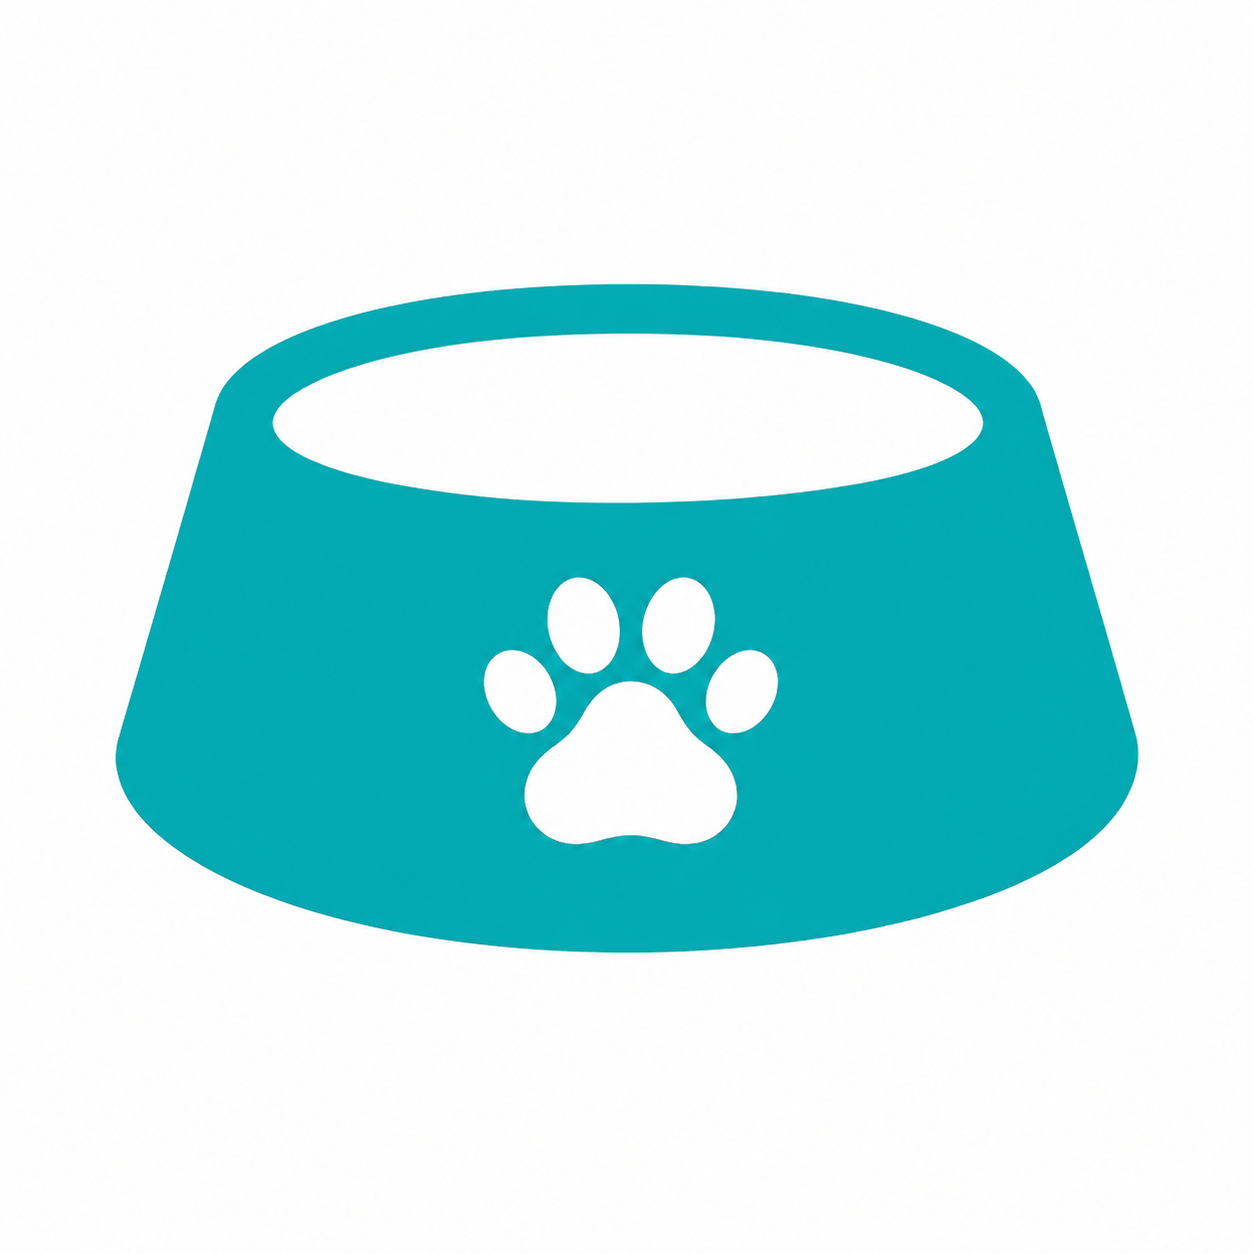
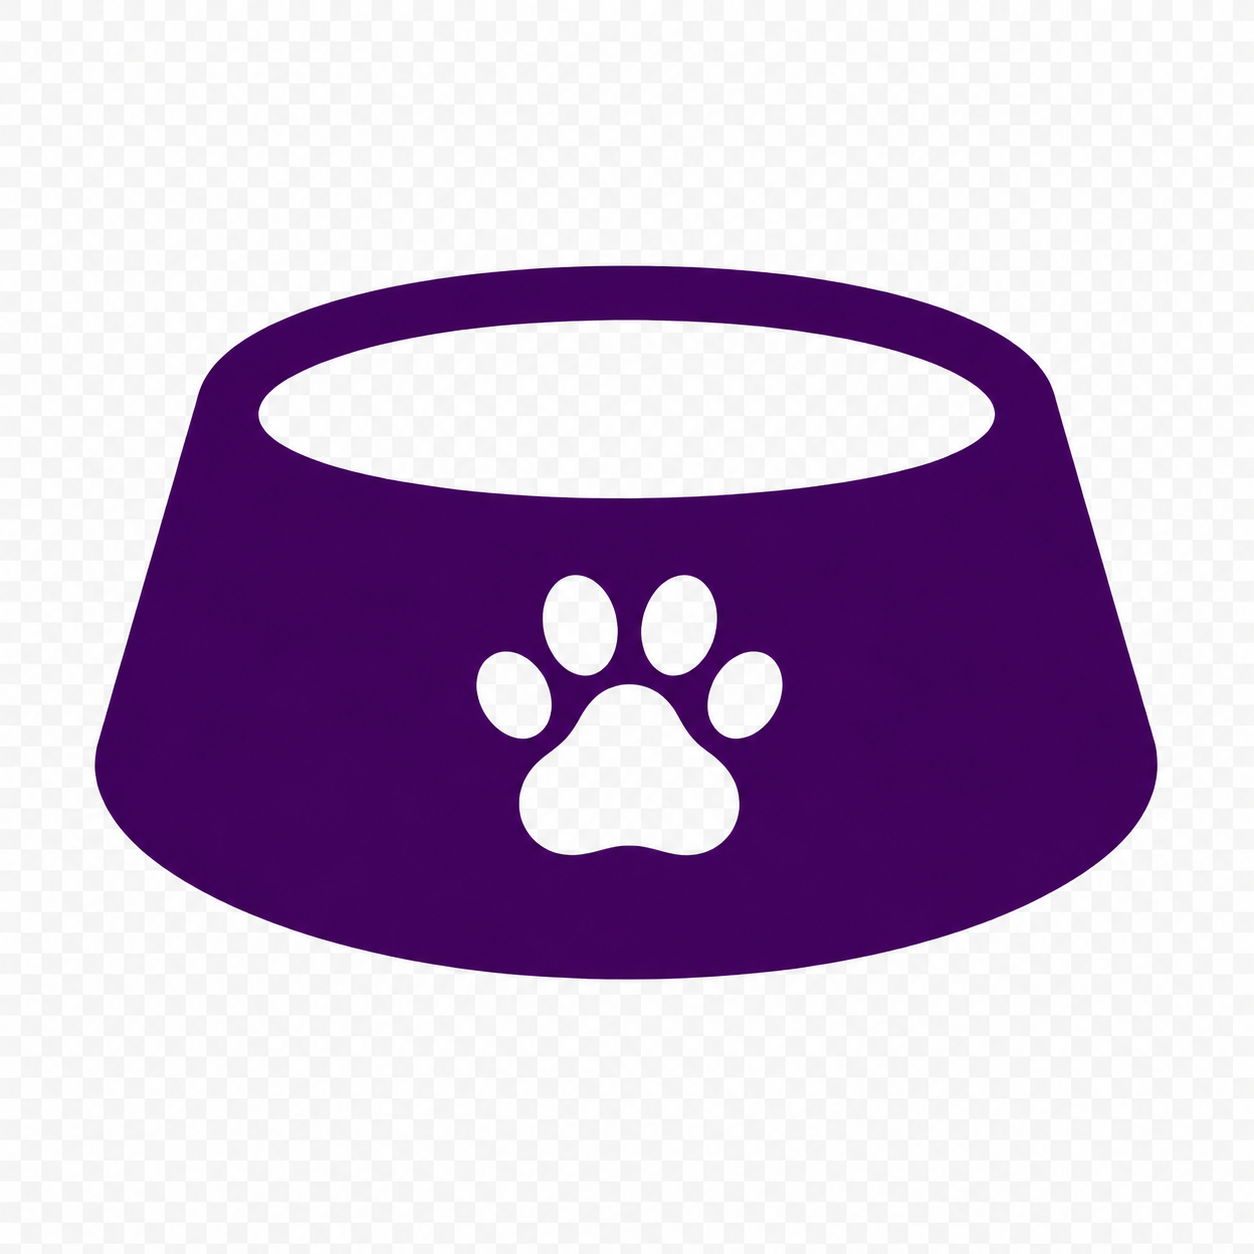
Icones de comida e focinho

diff --git a/app/page.tsx b/app/page.tsx
@@ -226,7 +226,7 @@ export default function Home() {
                   <ul className="space-y-3" aria-label="Funções dos rins além da filtração">
                     <SymptomItem icon={<img src="/gota.png" alt="" className="w-12 h-12 object-contain" />} title="Produção de eritropoetina" desc="Hormônio que estimula a medula óssea a produzir glóbulos vermelhos." />
                     <SymptomItem icon={<img src="/comida.png" alt="" className="w-12 h-12 object-contain" />} title="Ativação da vitamina D" desc="Transforma a vitamina D da dieta na sua forma ativa final (calcitriol)." />
-                    <SymptomItem icon={<img src="/equilibrio.png" alt="" className="w-12 h-12 object-contain" />} title="Regulação do equilíbrio interno" desc="Controla o volume e a composição dos fluidos corporais." />
+                    <SymptomItem icon={<img src="/focinho.png" alt="" className="w-12 h-12 object-contain" />} title="Regulação do equilíbrio interno" desc="Controla o volume e a composição dos fluidos corporais." />
                   </ul>
                 </div>
               </div>